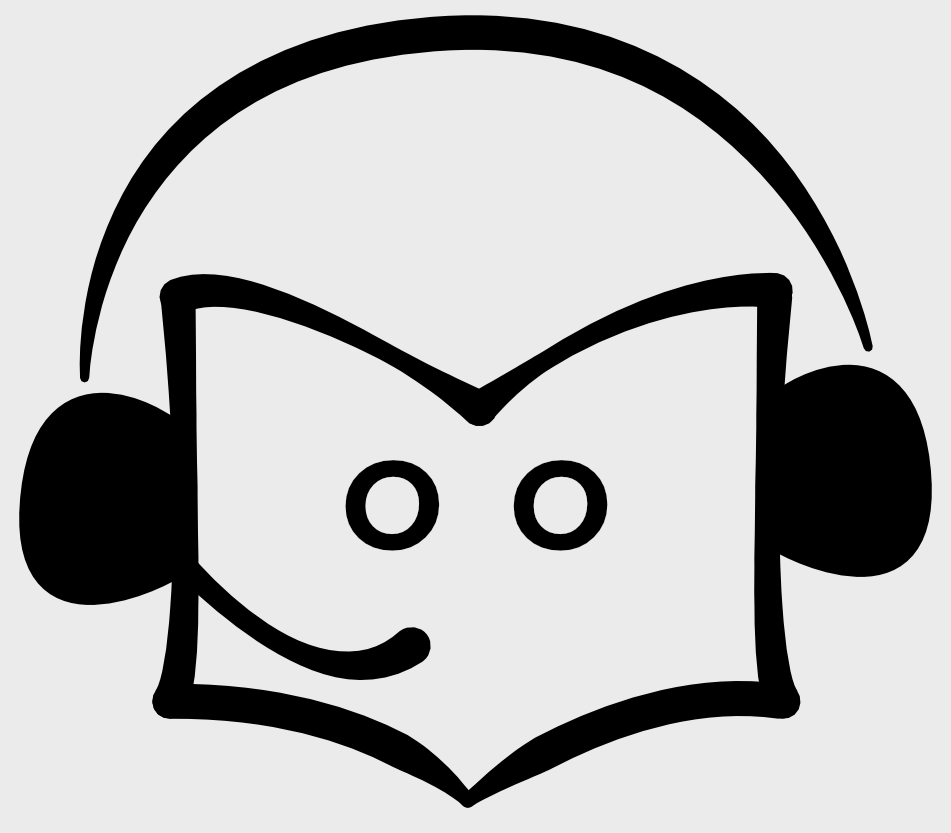
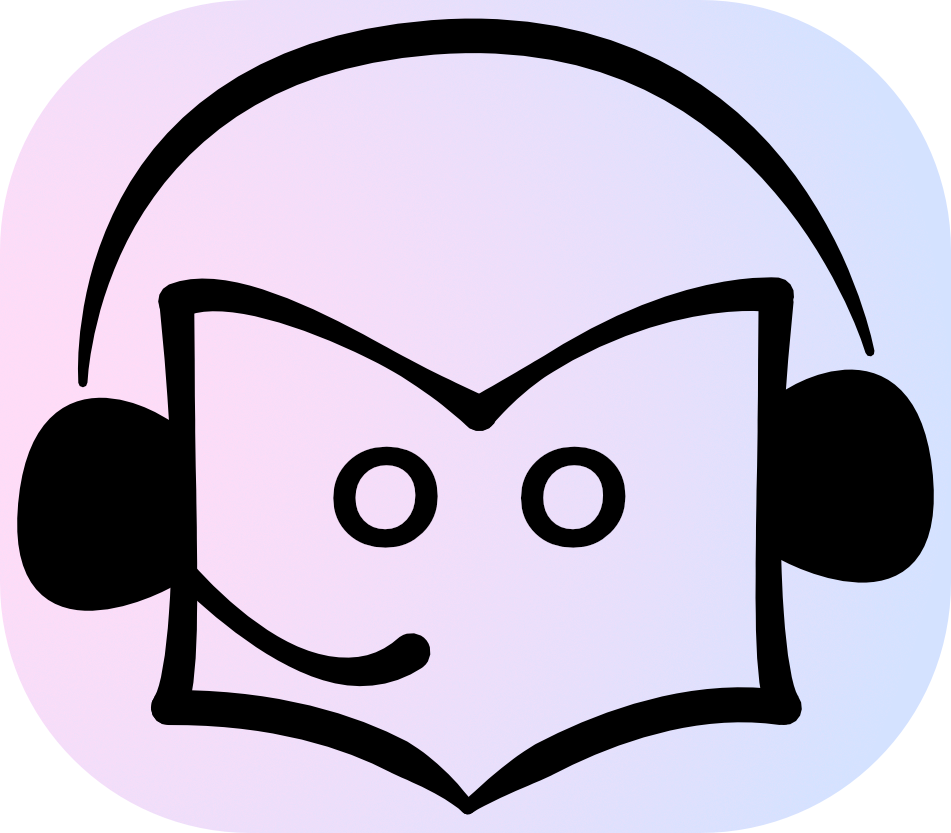
retusuri + iconita noua

diff --git a/contact.html b/contact.html
@@ -34,14 +34,15 @@
             <div class="flex justify-between items-center py-4">
                 
                 <a href="index.html" class="flex items-center space-x-2">
-                    <img src="logo.png" alt="Logo Bookcast" class="h-16 w-auto"> 
+                    <img src="logo.png" alt="Logo Bookcast" class="h-14 w-auto transform hover:scale-105 transition-transform duration-200"> 
                 </a>
 
                 <div class="hidden md:flex space-x-6 items-center">
                     <a href="index.html" class="text-gray-600 hover:text-blue-600 font-medium transition">Acasă</a>
-                    <a href="ziar.html" class="text-gray-600 hover:text-blue-600 font-medium transition">Ziarul Buzz</a>
+                    <a href="ziar.html" class="text-gray-600 hover:text-amber-600 font-medium transition">Ziarul Buzz</a>
                     <a href="podcast.html" class="text-gray-600 hover:text-blue-600 font-medium transition">Podcast</a>
-                    <a href="contact.html" class="text-blue-600 font-medium transition">Contact</a> </div>
+                    <a href="contact.html" class="text-indigo-600 font-bold bg-white/60 px-3 py-1 rounded-lg border border-indigo-100">Contact</a>
+                </div>
 
                 <div class="md:hidden flex items-center">
                     <button id="mobile-menu-btn" class="text-gray-600 hover:text-blue-600 focus:outline-none">

diff --git a/podcast.html b/podcast.html
@@ -27,8 +27,8 @@
                 </a>
                 <div class="hidden md:flex space-x-8 items-center">
                     <a href="index.html" class="text-slate-600 hover:text-indigo-600 font-medium transition">Acasă</a>
-                    <a href="ziar.html" class="text-slate-600 hover:text-indigo-600 font-medium transition">Ziarul Buzz</a>
-                    <a href="podcast.html" class="text-indigo-600 font-bold bg-white/50 px-3 py-1 rounded-lg">Podcast</a>
+                    <a href="ziar.html" class="text-slate-600 hover:text-amber-600 font-medium transition">Ziarul Buzz</a>
+                    <a href="podcast.html" class="text-indigo-600 font-bold bg-white/60 px-3 py-1 rounded-lg border border-indigo-100">Podcast</a>
                     <a href="contact.html" class="text-slate-600 hover:text-indigo-600 font-medium transition">Contact</a>
                 </div>
                 <div class="md:hidden flex items-center">

diff --git a/index.html b/index.html
@@ -30,7 +30,7 @@
                 </a>
                 <div class="hidden md:flex space-x-8 items-center">
                     <a href="index.html" class="text-indigo-600 font-bold bg-white/60 px-3 py-1 rounded-lg border border-indigo-100">Acasă</a>
-                    <a href="ziar.html" class="text-slate-600 hover:text-indigo-600 font-medium transition-colors duration-200">Ziarul Buzz</a>
+                    <a href="ziar.html" class="text-slate-600 hover:text-amber-600 font-medium transition-colors duration-200">Ziarul Buzz</a>
                     <a href="podcast.html" class="text-slate-600 hover:text-indigo-600 font-medium transition-colors duration-200">Podcast</a>
                     <a href="contact.html" class="text-slate-600 hover:text-indigo-600 font-medium transition-colors duration-200">Contact</a>
                 </div>
